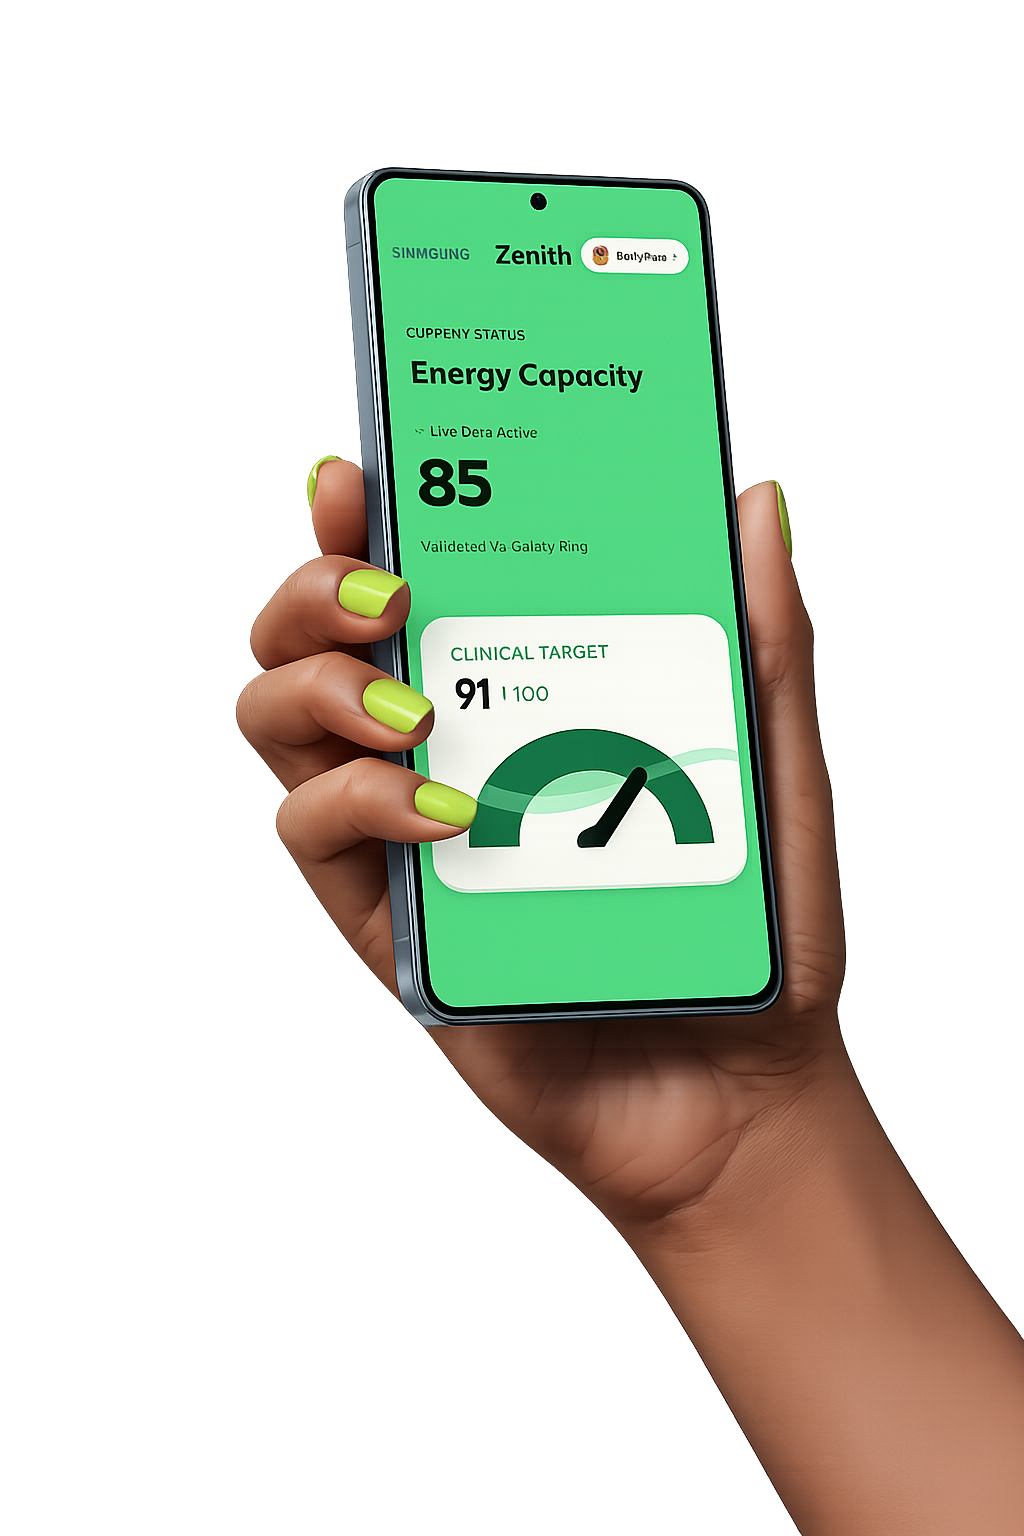
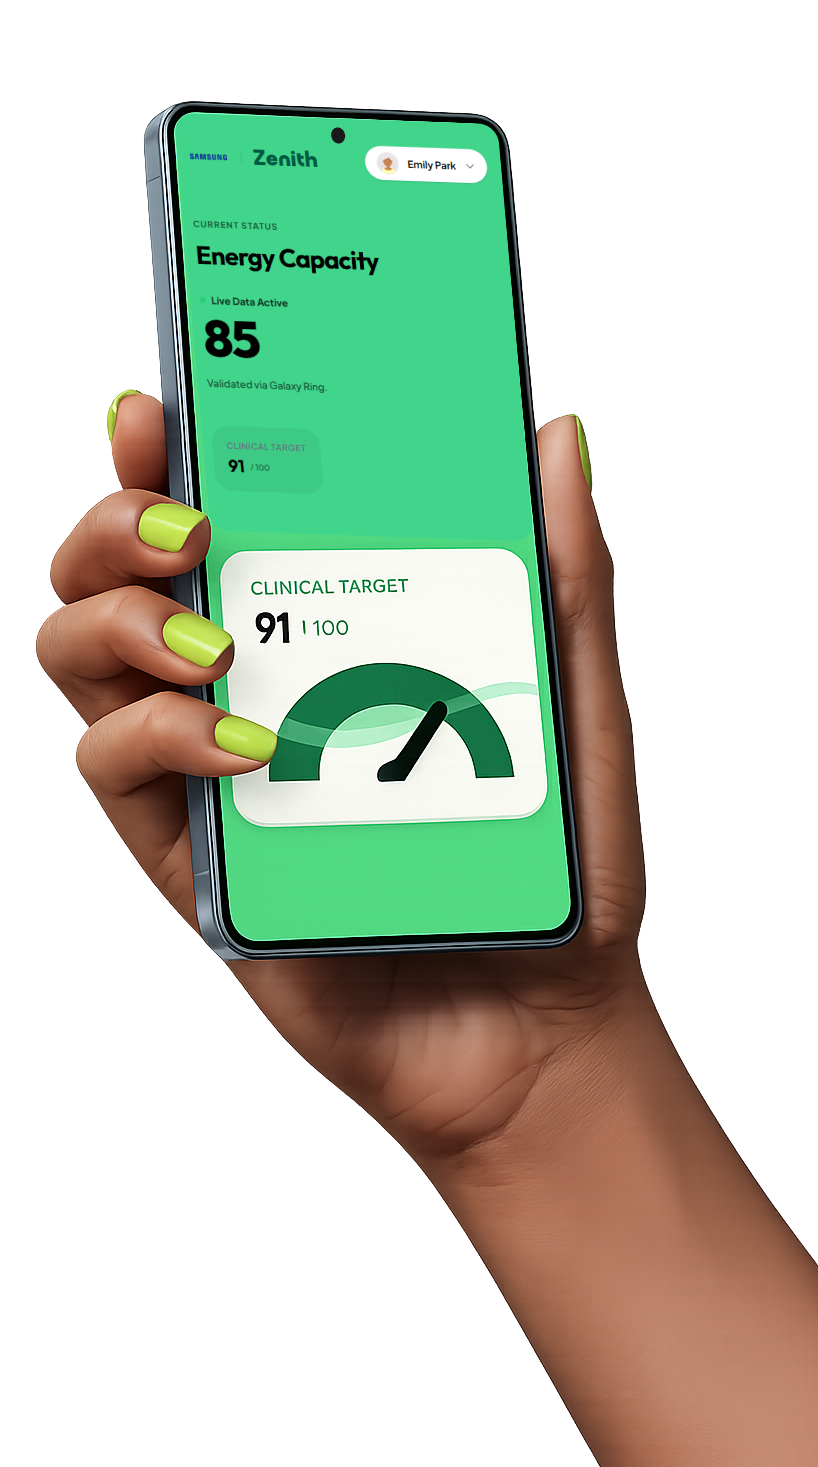
fix: landing ui

diff --git a/frontend/src/app/page.tsx b/frontend/src/app/page.tsx
@@ -26,12 +26,12 @@ export default function LandingPage() {
         </div>
       </nav>
 
-      <div className="max-w-[1400px] mx-auto px-4 md:px-12 pt-10 pb-24">
+      <div className="max-w-[1400px] mx-auto px-4 md:px-12 pt-20 md:pt-24 pb-24">
         
-        <div className="relative bg-[#D1F843] rounded-[2.5rem] md:rounded-[4rem] w-full min-h-[550px] md:min-h-[600px] flex flex-col md:flex-row items-center px-8 md:px-20 pt-16 md:pt-0 shadow-sm overflow-visible border border-black/5">
+        <div className="relative bg-[#D1F843] rounded-[2.5rem] md:rounded-[4rem] w-full min-h-[600px] md:min-h-[750px] flex flex-col md:flex-row items-center px-8 md:px-16 lg:px-24 pt-16 md:pt-0 shadow-sm overflow-visible border border-black/5">
           
-          <div className="w-full md:w-[55%] z-10 flex flex-col justify-center pb-12 md:pb-0 md:py-20">
-            <h1 className="font-display text-6xl md:text-[7rem] font-bold leading-[0.85] tracking-tighter text-[#005840] mb-8">
+          <div className="w-full md:w-[55%] z-10 flex flex-col justify-center pb-16 md:pb-0 md:py-16 pl-2 md:pl-8 lg:pl-12">
+            <h1 className="font-display text-6xl md:text-[6.5rem] font-bold leading-[0.85] tracking-tighter text-[#005840] mb-8">
               Peak<br />
               health,<br />
               synced.
@@ -49,11 +49,11 @@ export default function LandingPage() {
             </div>
           </div>
 
-          <div className="w-full md:w-[45%] absolute right-0 bottom-0 top-[-100%] pointer-events-none overflow-hidden rounded-b-[2.5rem] md:rounded-b-[4rem]">
+          <div className="w-full md:w-[45%] absolute right-0 bottom-0 top-[-200%] pointer-events-none overflow-hidden rounded-b-[2.5rem] md:rounded-b-[4rem]">
             <img 
               src="/mockup.png" 
               alt="Zenith Dashboard on Phone Mockup" 
-              className="absolute -bottom-20 md:-bottom-25 right-[-20px] md:right-8 w-auto h-[750px] md:h-[1100px] max-h-none object-contain object-right-bottom drop-shadow-2xl"
+              className="absolute -bottom-20 md:-bottom-35 right-0 md:right-10 lg:right-0 w-auto h-[1000px] md:h-[1200px] max-h-none object-contain object-right-bottom drop-shadow-2xl"
             />
           </div>
           